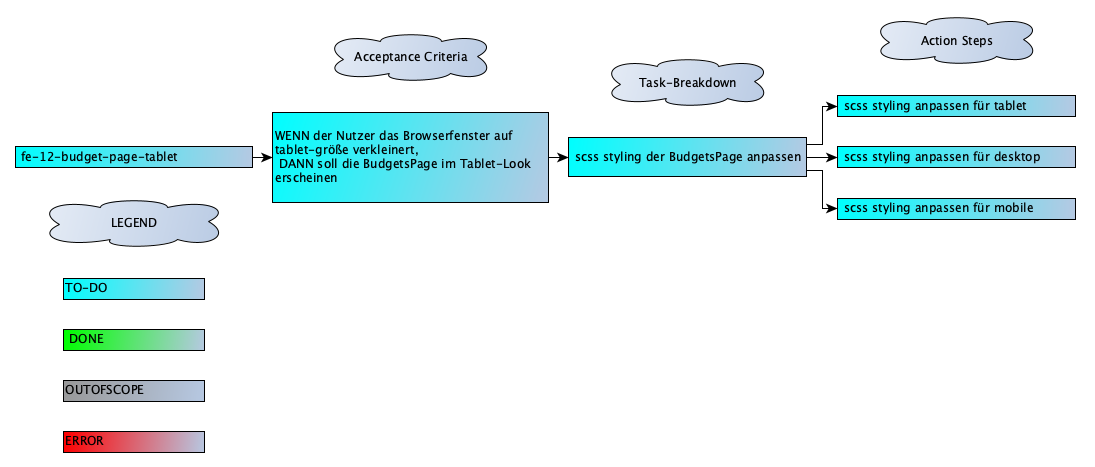
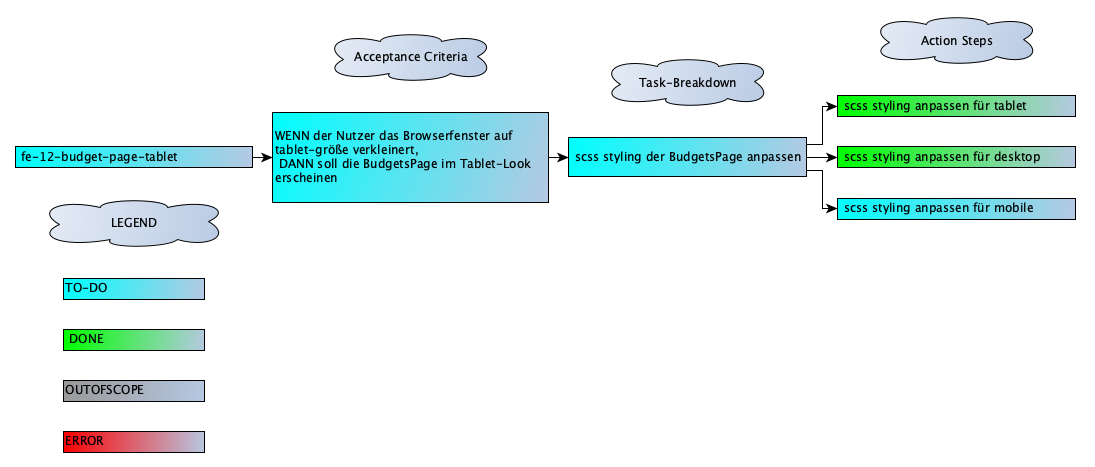
fe-12 add styling for tablet

Changed region(s): [[0.7452, 0.1799, 0.9626, 0.2698], [0.7452, 0.2998, 0.9626, 0.3597]]

diff --git a/frontend/src/components/budgets/BudgetDiagrammCard/BudgetsDiagramCardRow.scss b/frontend/src/components/budgets/BudgetDiagrammCard/BudgetsDiagramCardRow.scss
@@ -1,7 +1,16 @@
+@use '../../../styles/mixins';
+
 .budgetsDiagramCardRow {
   display: flex;
   flex-direction: row;
   align-items: center;
+
+  @include mixins.tablet-and-down() {
+    display: grid;
+    grid-template-columns: auto 1fr 70px 70px;
+    column-gap: 8px;
+    align-items: center;
+  }
 }
 
 .cardRowLeftBorder{
@@ -9,6 +18,10 @@
   border-radius: 8px;
   height: 21px;
   width: 4px;
+
+  @include mixins.tablet-and-down() {
+    margin-right: 8px;
+  }
 }
 .cardRowLeftBorder.dark-green{
   background-color: var(--dark-green);
@@ -25,8 +38,12 @@
 
 .cardRowTitle {
   flex-grow: 1;
+  flex-shrink: 1;
   font-size: 14px;
   color: var(--text-grey);
+  white-space: nowrap;
+  overflow: hidden;
+  text-overflow: ellipsis;
 }
 
 .cardRowTitleCurrentAmount {
@@ -34,9 +51,16 @@
   font-size: 16px;
   font-weight: 600;
   color: var(--text-dark);
+
+  @include mixins.tablet-and-down() {
+    margin-right: 0;
+    display: flex;
+    justify-content: flex-end;
+  }
 }
 
 .cardRowTitleMaxAmount {
   font-size: 14px;
   color: var(--text-grey);
+  white-space: nowrap;
 }

diff --git a/frontend/src/components/budgets/BudgetDiagrammCard/BudgetsDiagramCard.scss b/frontend/src/components/budgets/BudgetDiagrammCard/BudgetsDiagramCard.scss
@@ -1,3 +1,5 @@
+@use '../../../styles/mixins';
+
 .budgetsDiagramCard {
   border-radius: 12px;
   background-color: var(--component-background-bright);
@@ -5,6 +7,14 @@
   display: flex;
   flex-direction: column;
   row-gap: 32px;
+
+  @include mixins.tablet-and-down() {
+    padding: 21px;
+    display: grid;
+    grid-template-columns: 1fr 1fr;
+    column-gap: 16px;
+    align-items: center;
+  }
 }
 
 .budgetsDiagramCardDetails {

diff --git a/frontend/src/components/budgets/BudgetDiagrammCard/BudgetsDiagramCardRow.tsx b/frontend/src/components/budgets/BudgetDiagrammCard/BudgetsDiagramCardRow.tsx
@@ -16,7 +16,7 @@ export function BudgetsDiagramCardRow({
   color,
 }: BudgetsDiagramCardRowProps) {
   const currentAmountFormatted = currentAmount.toFixed(2);
-  const maxAmountFormatted = maxAmount.toFixed(2);
+  const maxAmountFormatted = maxAmount.toFixed(0);
   return (
     <>
       <div className="budgetsDiagramCardRow" data-testid="budgets-diagramm-card-row">

diff --git a/frontend/src/pages/BudgetsPage.scss b/frontend/src/pages/BudgetsPage.scss
@@ -1,7 +1,14 @@
+@use '../styles/mixins';
+
 .budgetsDetails {
   display: grid;
-  grid-template-columns: 40% calc(60% - 24px);
+  grid-template-columns: repeat(auto-fit, minmax(400px, 1fr));
   column-gap: 24px;
+
+  @include mixins.tablet-and-down() {
+    grid-template-columns: 1fr;
+    row-gap: 24px;
+  }
 }
 
 .budgetsDetailsRight {
